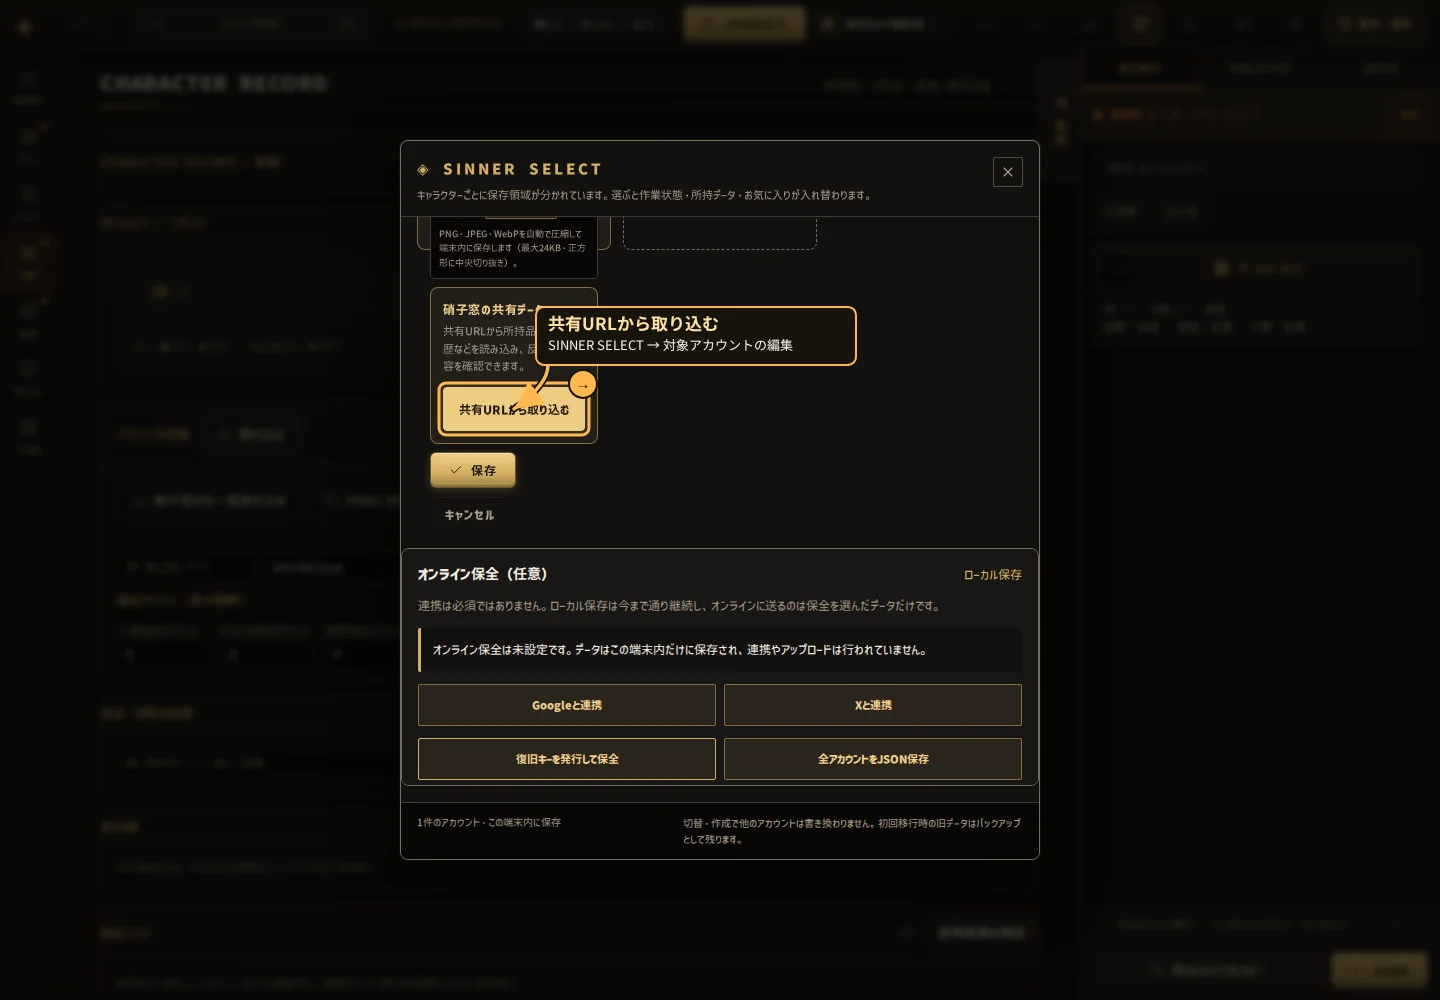
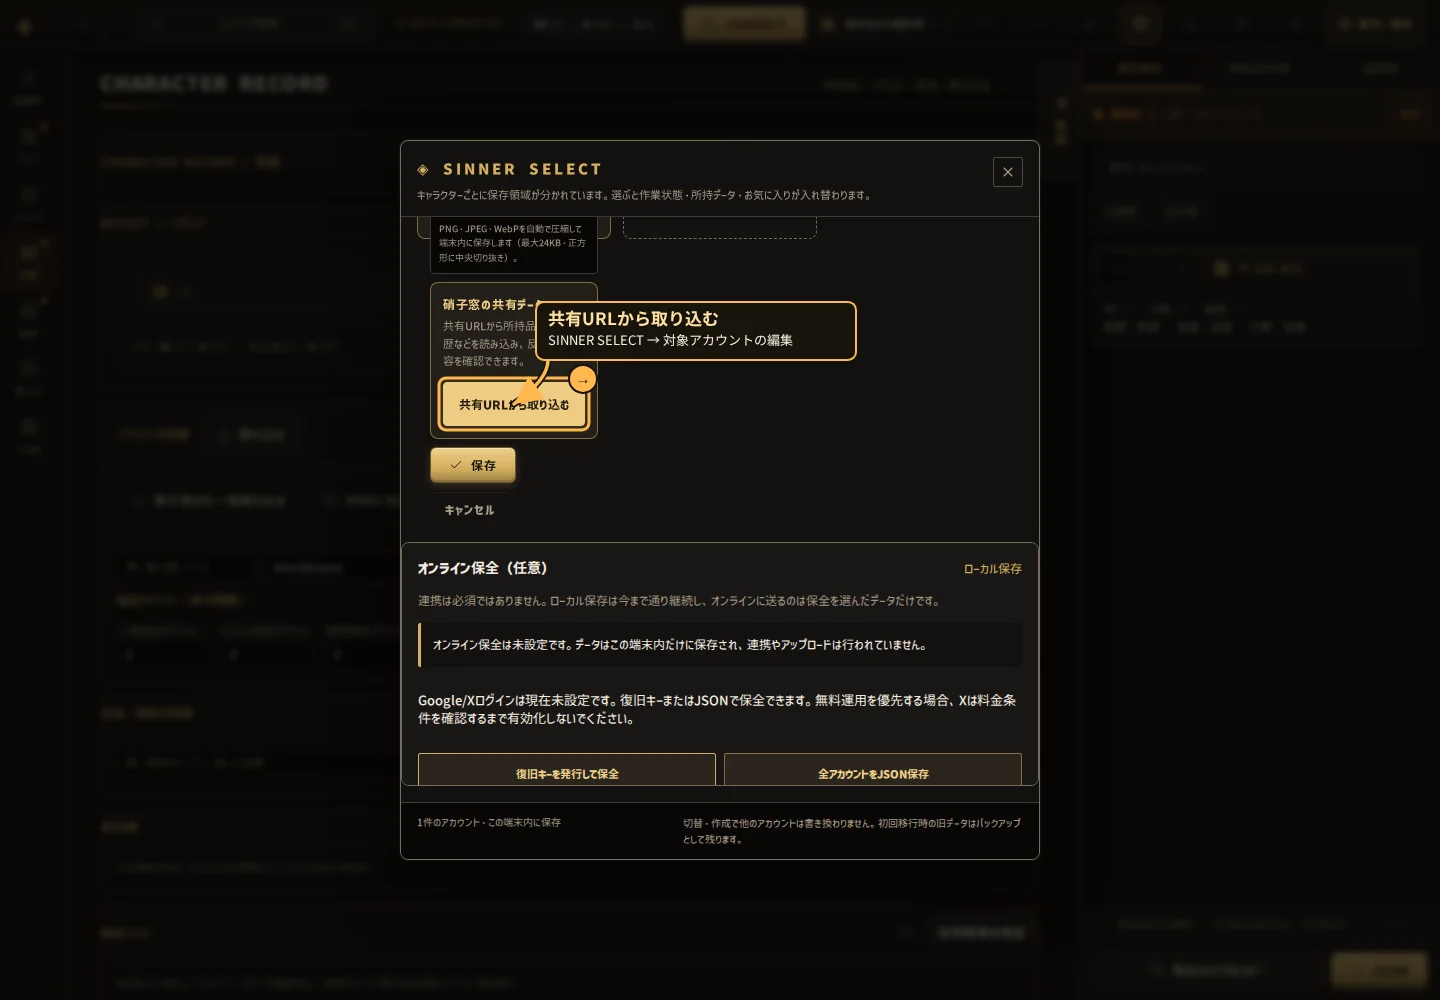
Show only enabled OAuth providers and keep free-first guidance
* Only show enabled OAuth providers

* Refresh cloud backup script cache hash

* Refresh Service Worker precache hash

* Test OAuth provider visibility

* Document no-surprise-cost OAuth choices

* Show provider verification loading state

* Refresh cloud backup script cache hash

* Refresh Service Worker precache hash

* docs: add real UI tutorial screenshots

* Document conditional OAuth buttons

---------

diff --git a/js/cloud-backup.js b/js/cloud-backup.js
@@ -30,7 +30,10 @@
     hasRecoveryKey: false,
     recoveryKeyEnabled: false,
     syncEnabled: false,
-    localMeaningful: false
+    localMeaningful: false,
+    providerSettingsLoaded: false,
+    providerSettingsAvailable: false,
+    providers: { google: false, x: false }
   };
 
   function emit(patch = {}) {
@@ -706,9 +709,32 @@
     clearTimeout(syncTimer);
     syncTimer = setTimeout(syncAutomatically, 1800);
   }
+
+  async function refreshProviderAvailability() {
+    let available = false;
+    const providers = { google: false, x: false };
+    try {
+      const response = await fetch(SUPABASE_URL + "/auth/v1/settings", {
+        headers: { "apikey": SUPABASE_PUBLISHABLE_KEY }
+      });
+      if (response.ok) {
+        const settings = await response.json();
+        const external = settings && typeof settings.external === "object" ? settings.external : {};
+        providers.google = external.google === true;
+        providers.x = external.x === true;
+        available = true;
+      }
+    } catch (_) {
+      /* Fail closed: do not show sign-in options whose state couldn't be verified. */
+    }
+    emit({ providerSettingsLoaded: true, providerSettingsAvailable: available, providers });
+    return { available, providers };
+  }
+
   async function initialize() {
     if (initialized) return;
     initialized = true;
+    await refreshProviderAvailability();
     await handleOAuthCallback();
     await refresh();
   }
@@ -744,9 +770,19 @@
       ),
       h("p", { className: "lbt-cloud-description" }, "連携は必須ではありません。ローカル保存は今まで通り継続し、オンラインに送るのは保全を選んだデータだけです。"),
       h("p", { className: "lbt-cloud-message", role: "status", "aria-live": "polite" }, view.message),
-      !view.hasSession ? h("div", { className: "lbt-cloud-actions" },
-        button("Googleと連携", () => run(() => startOAuth("google"))),
-        button("Xと連携", () => run(() => startOAuth("x")))
+      !view.hasSession ? (
+        (view.providers?.google || view.providers?.x)
+          ? h("div", { className: "lbt-cloud-actions" },
+              view.providers?.google ? button("Googleと連携", () => run(() => startOAuth("google"))) : null,
+              view.providers?.x ? button("Xと連携", () => run(() => startOAuth("x"))) : null
+            )
+          : h("p", { className: "lbt-cloud-provider-note", role: "status" },
+              !view.providerSettingsLoaded
+                ? "利用可能なログイン方式を確認中です。"
+                : view.providerSettingsAvailable
+                  ? "Google/Xログインは現在未設定です。復旧キーまたはJSONで保全できます。無料運用を優先する場合、Xは料金条件を確認するまで有効化しないでください。"
+                  : "ログイン方式の設定状態を確認できないため、ログインボタンを表示していません。復旧キーまたはJSONによる保全・復元は利用できます。"
+            )
       ) : h("p", { className: "lbt-cloud-account" }, "オンライン認証済み。このブラウザーからいつでも連携を停止できます。"),
       view.hasSession && view.hasRecoveryKey && view.mode === "recovery" ? button("この復旧キーをGoogle/Xにも結びつける", () => run(linkRecoveryKeyToOAuth)) : null,
       view.hasSession && view.hasRecoveryKey && view.mode === "oauth" && view.recoveryKeyMatches === false ? button("この端末の復旧キーだけ外す", () => run(unlinkRecoveryKeyLocally)) : null,

diff --git a/sw.js b/sw.js
@@ -21,7 +21,7 @@
 "use strict";
 
 /* ==== GENERATED (tools/sync-asset-versions.mjs) ==== */
-const CACHE_NAME = "lbt-9e80ff33";
+const CACHE_NAME = "lbt-31039794";
 const PRECACHE_URLS = [
   "index.html",
   "share.html",
@@ -58,7 +58,7 @@ const PRECACHE_URLS = [
   "js/PersonaCodex.js?v=59018e19",
   "js/SkillDeck.js?v=a93f6cb8",
   "js/accounts-ui.js?v=6f8fb33c",
-  "js/cloud-backup.js?v=8c54c88e",
+  "js/cloud-backup.js?v=1922802b",
   "js/core.js?v=d79b98be",
   "js/ego-slot-forms.js?v=85aa4887",
   "js/gacha-identity.js?v=25e8fdfa",

diff --git a/index.html b/index.html
@@ -256,7 +256,7 @@ window.addEventListener("load", function(){
   <script src="js/gacha-tickets.js?v=2ecc4e1b"></script>
   <script src="js/gacha-identity.js?v=25e8fdfa"></script>
   <script src="js/gacha-proof.js?v=516f754a"></script>
-<script src="js/cloud-backup.js?v=8c54c88e"></script>
+<script src="js/cloud-backup.js?v=1922802b"></script>
 <script src="js/accounts-ui.js?v=6f8fb33c"></script>
 <script src="js/App.js?v=e99d3576"></script>
 <script>

diff --git a/docs/optional-account-cloud-backup.md b/docs/optional-account-cloud-backup.md
@@ -6,6 +6,10 @@
 
 保全対象は、LBTがアカウントと旧保存データに使う `lbt_*` のうち、アカウント索引・各アカウントの作業状態・アイコン・旧保存の退避キーに限定しています。クラウド認証セッションや復旧キー自体は、バックアップペイロードへ含めません。
 
+### 費用を抑えて運用する
+
+Supabase Freeの枠内で利用する前提ですが、無料枠には容量・稼働条件があり、無料プロジェクトは長期間使われないと一時停止されることがあります。JSONバックアップも別途保管してください。Googleの基本的なOAuthログインを使う場合も、不要な有料APIを有効化しないでください。Xの開発者向けサービスは従量課金条件があるため、費用ゼロを優先する運用ではXログインを有効化せず、料金条件を確認してから判断してください。画面にはSupabase Auth側で有効と確認できたログイン方式だけが表示されます。
+
 ## 利用者向けの使い方
 
 ### ローカルだけで使う
@@ -40,7 +44,7 @@
 4. Supabase Dashboard → Authentication → URL Configurationで、アプリの本番URLと利用する開発用URLをRedirect URLsへ登録します。
 5. Google / Xログインを有効にする場合は、それぞれの開発者コンソールでOAuthアプリを作成し、コールバックに `https://hobntjcrzybqsiobrpsz.supabase.co/auth/v1/callback` を設定します。得られたClient ID / SecretはSupabase Dashboard → Authentication → Providersで設定してください。Client Secretをリポジトリやフロントエンドへ追加してはいけません。
 
-Google / Xのプロバイダー認証情報はこのリポジトリには含めていません。Supabase側の設定が未完了の場合、そのログイン方式は利用できませんが、ローカル保存、JSON保全、復旧キー方式を妨げません。
+Google / Xのプロバイダー認証情報はこのリポジトリには含めていません。Supabase側の設定が未完了の場合、そのログイン方式は利用できませんが、ローカル保存、JSON保全、復旧キー方式を妨げません。 画面のログインボタンはSupabase Authが有効と報告したプロバイダーだけを表示し、無効または状態不明のボタンは隠します。
 
 GoogleとXは別々の認証元です。片方で作成したオンライン保全が、もう片方のログインへ自動的に統合されるとは限りません。継続して使う認証元を一つ決め、別の認証元へ切り替える場合は、先に復旧キーを用意してデータを確認してください。
 
